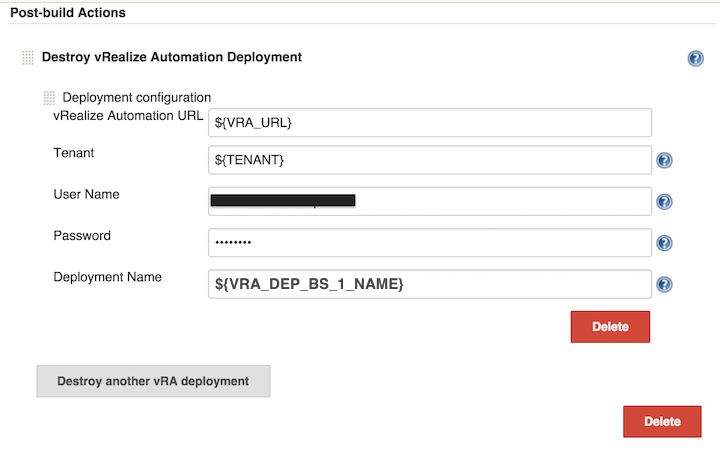
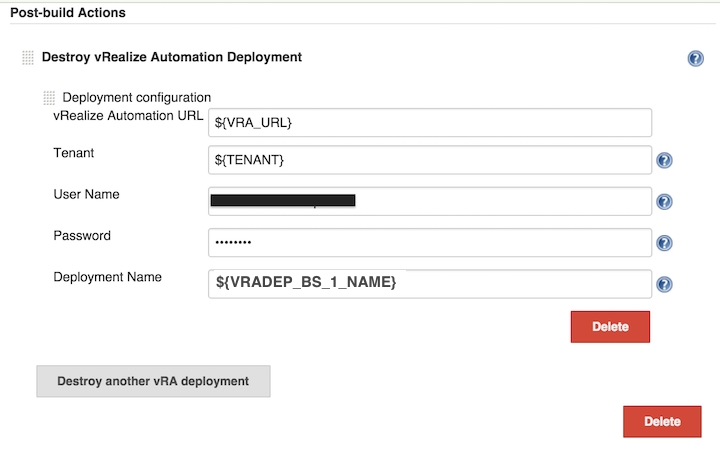
Updated for jenkins wiki page

Changed region(s): [[0.275, 0.5795, 0.5806, 0.6405]]

diff --git a/src/main/java/com/inkysea/vmware/vra/jenkins/plugin/model/Deployment.java b/src/main/java/com/inkysea/vmware/vra/jenkins/plugin/model/Deployment.java
@@ -201,8 +201,8 @@ public class Deployment {
 
         String deploymentName = getDeploymentName();
 
-        map.put("DEPLOYMENT_"+count+"_NAME", deploymentName);
-        map.put("DEPLOYMENT_"+count+"_TENANT", params.getTenant());
+        map.put("VRADEP_"+count+"_NAME", deploymentName);
+        map.put("VRADEP_"+count+"_TENANT", params.getTenant());
 
 
         getMachineList();
@@ -211,10 +211,11 @@ public class Deployment {
             //creat map named grup__machine_name__network_name :  network address
             for ( Object data : machine ){
                 //tenant_deployment_group_machine_network = IP
-                map.put(params.getTenant() + "_" + deploymentName+"_"+
-                                machine.get(1).toString()+"_"+ machine.get(2).toString()+"_"+
-                                machine.get(3).toString(),
-                                machine.get(4).toString());
+                map.put(params.getTenant().toUpperCase() + "_" + deploymentName.toUpperCase()+"_"+
+                                machine.get(1).toString().toUpperCase()+"_"+
+                                machine.get(2).toString().toUpperCase()+"_"+
+                                machine.get(3).toString().toUpperCase(),
+                                machine.get(4).toString().toUpperCase());
             }
 
         }
@@ -225,8 +226,8 @@ public class Deployment {
             //creat map named grup__machine_name__network_name :  network address
             for ( Object data : loadbalancer ){
                 //tenant_deployment_group_machine_network = IP
-                map.put(params.getTenant() + "_" + deploymentName+
-                                loadbalancer.get(1).toString(),
+                map.put(params.getTenant().toUpperCase() + "_" + deploymentName.toUpperCase()+
+                                loadbalancer.get(1).toString().toUpperCase(),
                                 loadbalancer.get(2).toString());
             }
 
